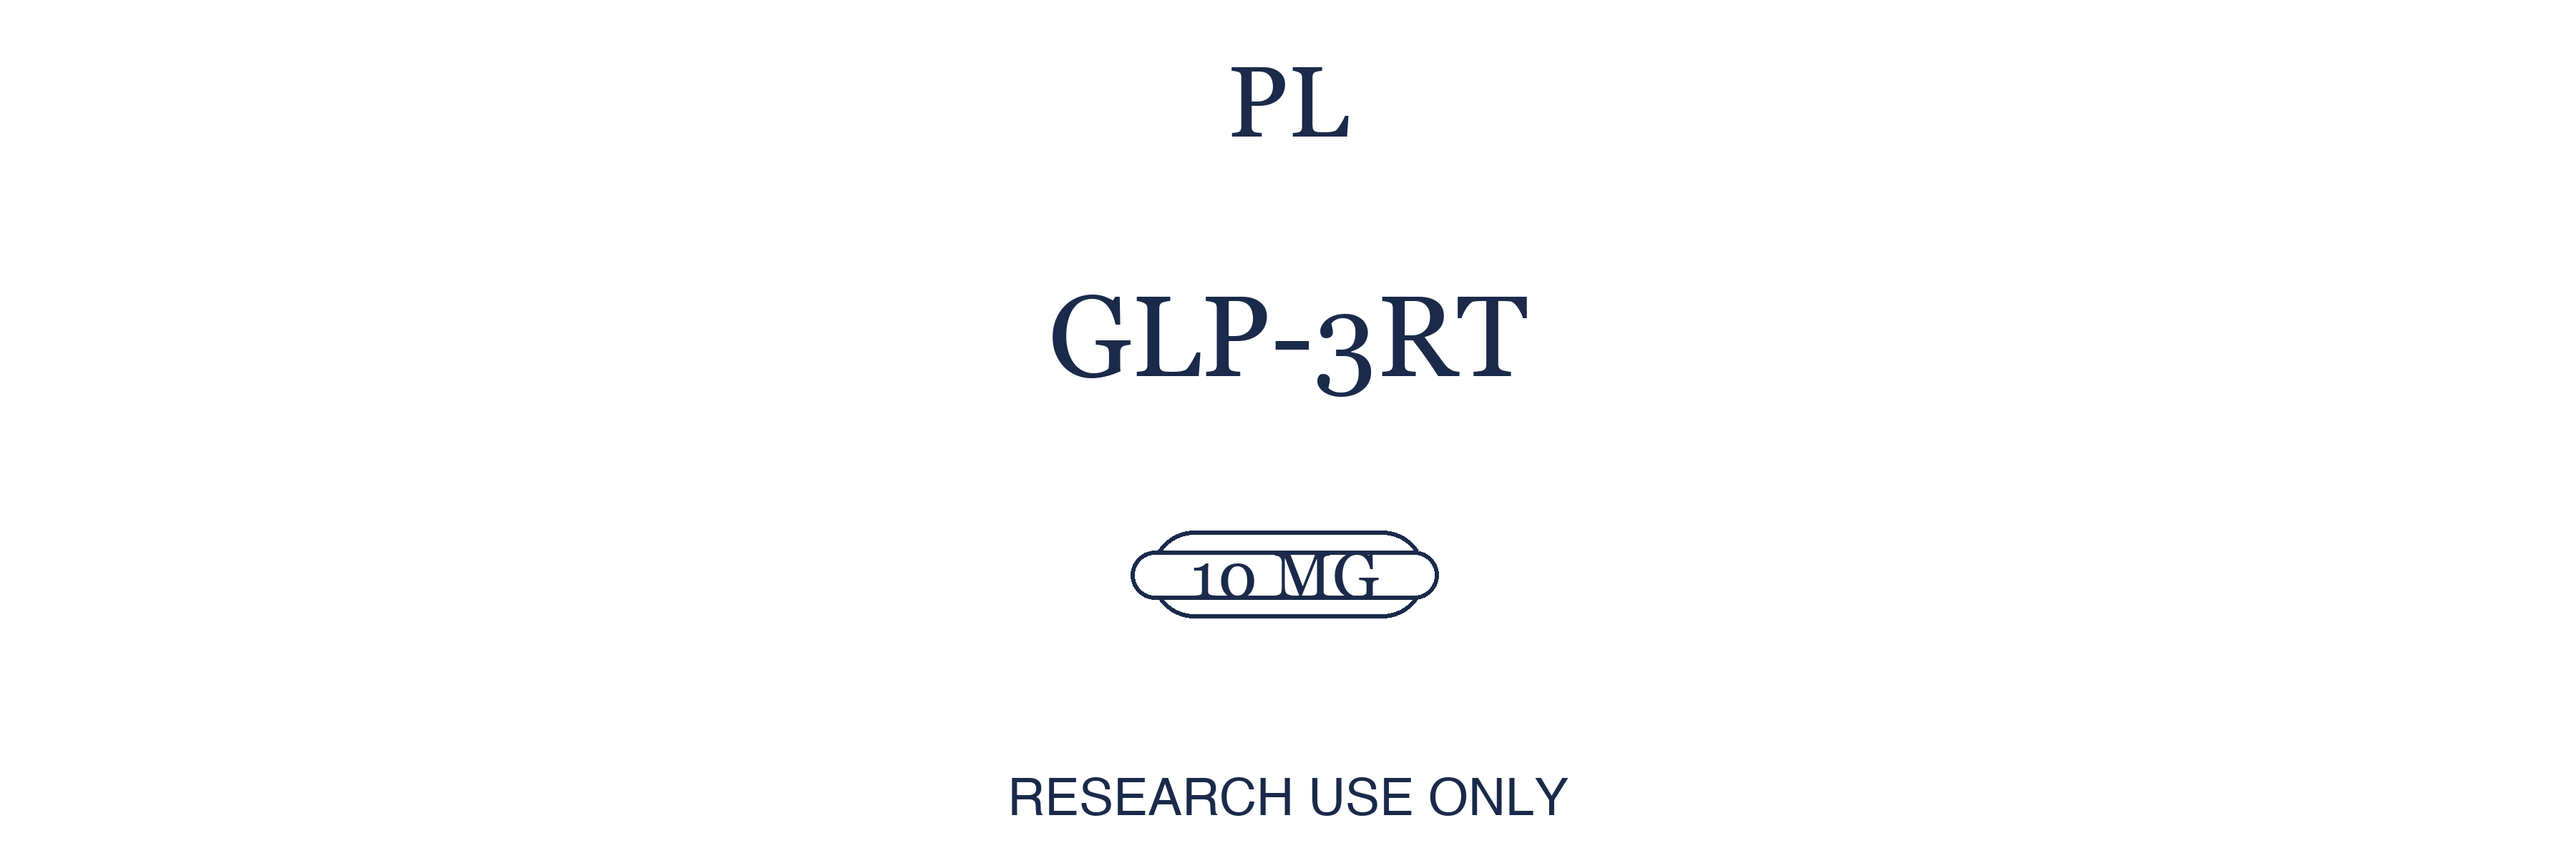
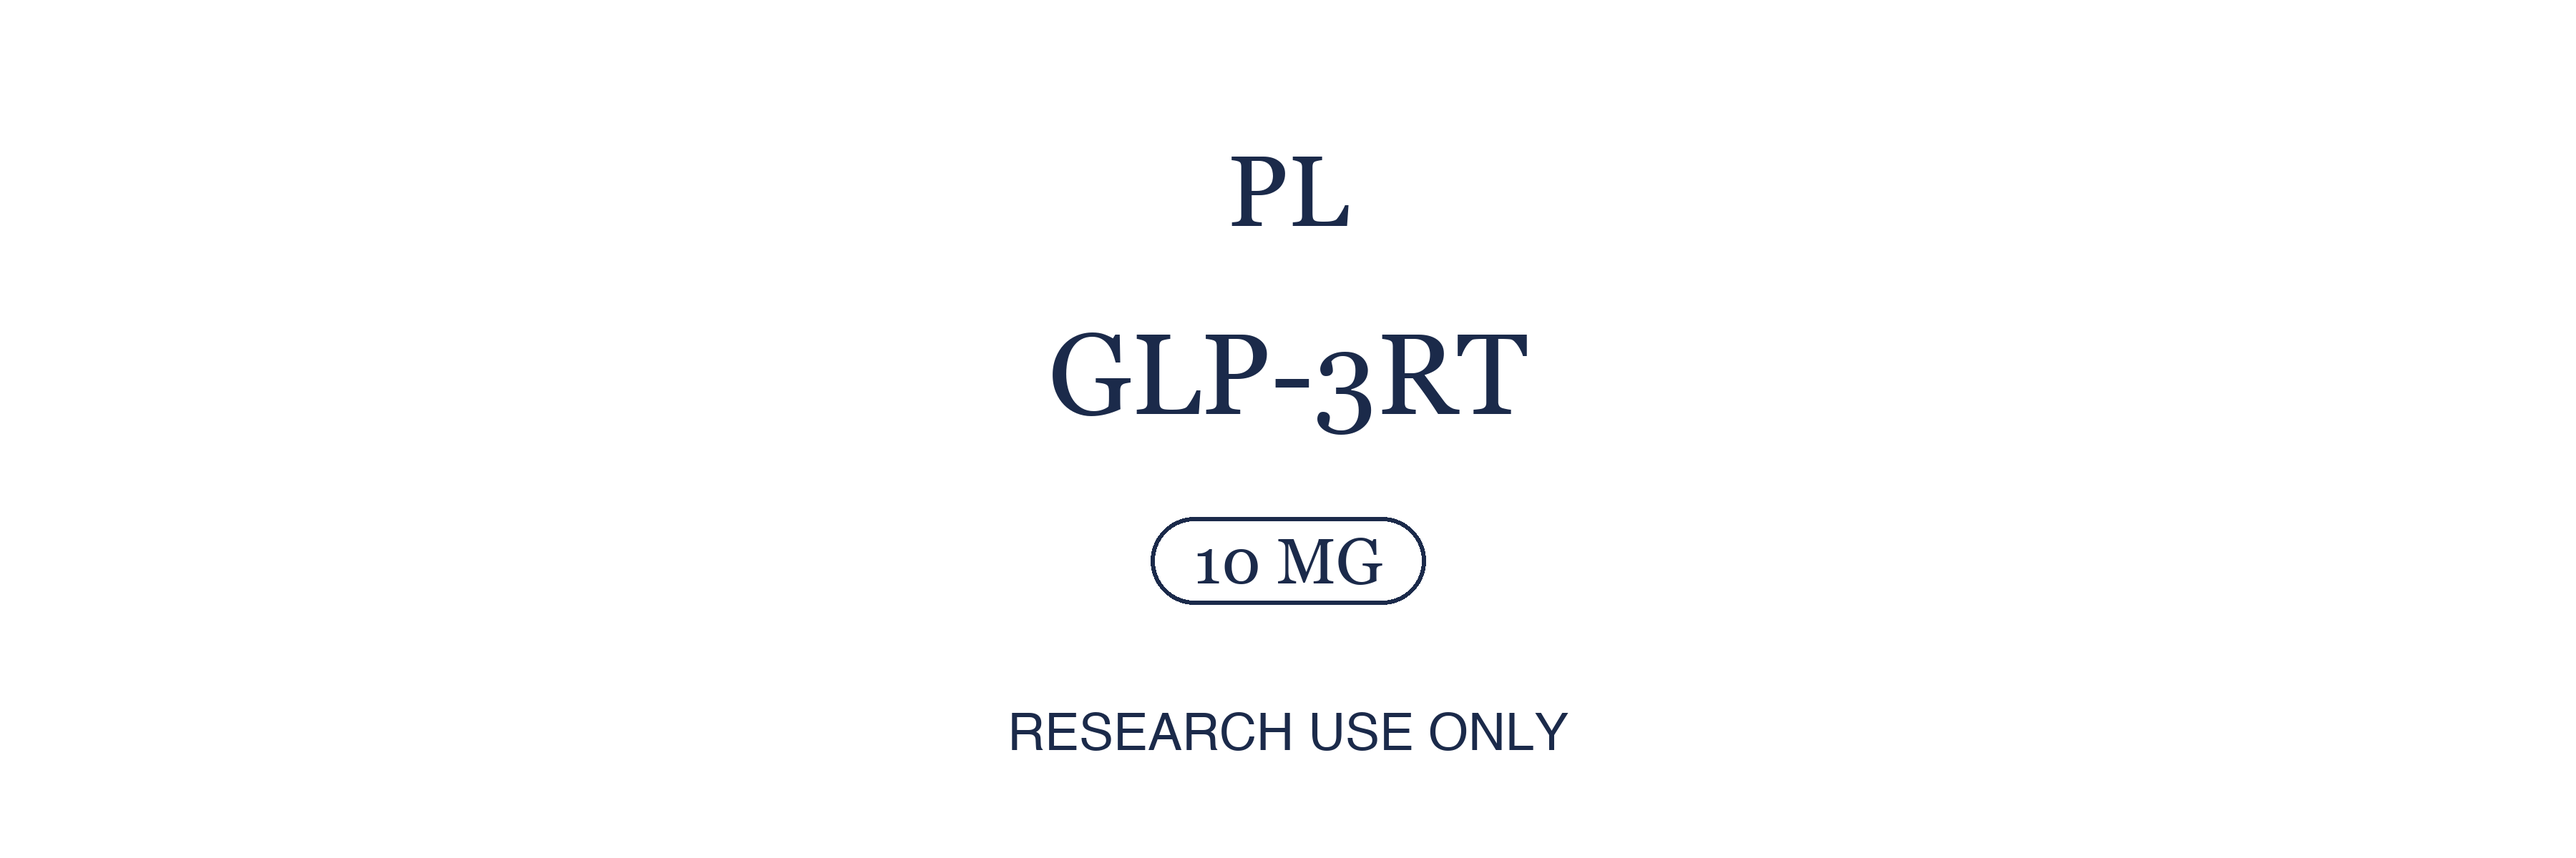
fix: regenerate all labels with correct proportions matching original GLP-3RT spacing

diff --git a/scripts/generate-labels.py b/scripts/generate-labels.py
@@ -5,116 +5,96 @@ from PIL import Image, ImageDraw, ImageFont
 import os
 
 OUTPUT_DIR = os.path.join(os.path.dirname(__file__), "../public/3d")
-
-# Canvas dimensions
 W, H = 3600, 1200
 NAVY = (27, 42, 74, 255)
 TRANSPARENT = (0, 0, 0, 0)
 
-# Font paths (macOS)
-SERIF_PATHS = [
-    "/System/Library/Fonts/Supplemental/Georgia.ttf",
-    "/Library/Fonts/Georgia.ttf",
-]
-SANS_PATHS = [
-    "/System/Library/Fonts/Helvetica.ttc",
-    "/Library/Fonts/Arial.ttf",
-    "/System/Library/Fonts/Supplemental/Arial.ttf",
-]
+SERIF_PATHS = ["/System/Library/Fonts/Supplemental/Georgia.ttf"]
+SANS_PATHS  = ["/System/Library/Fonts/Helvetica.ttc"]
 
 def load_font(paths, size):
     for p in paths:
         if os.path.exists(p):
-            try:
-                return ImageFont.truetype(p, size)
-            except Exception:
-                pass
+            return ImageFont.truetype(p, size)
     return ImageFont.load_default()
 
 def draw_label(filename, product_name, dosage):
-    img = Image.new("RGBA", (W, H), TRANSPARENT)
+    img  = Image.new("RGBA", (W, H), TRANSPARENT)
     draw = ImageDraw.Draw(img)
 
-    # Fonts
-    font_logo = load_font(SERIF_PATHS, 140)
-    font_name = load_font(SERIF_PATHS, 160)
-    font_name_small = load_font(SERIF_PATHS, 120)
+    font_logo   = load_font(SERIF_PATHS, 140)
+    font_name   = load_font(SERIF_PATHS, 160) if len(product_name) <= 12 else load_font(SERIF_PATHS, 120)
     font_dosage = load_font(SERIF_PATHS, 90)
-    font_tag = load_font(SANS_PATHS, 72)
+    font_tag    = load_font(SANS_PATHS,  72)
 
-    cy = H // 2  # vertical center
-
-    # Layout: estimate heights
-    # PL logo
-    logo_text = "PL"
-    logo_bbox = draw.textbbox((0, 0), logo_text, font=font_logo)
-    logo_h = logo_bbox[3] - logo_bbox[1]
-
-    # Product name (may need smaller font if long)
-    fn = font_name if len(product_name) <= 12 else font_name_small
-    name_bbox = draw.textbbox((0, 0), product_name, font=fn)
-    name_h = name_bbox[3] - name_bbox[1]
-
-    # Dosage pill
-    dosage_bbox = draw.textbbox((0, 0), dosage, font=font_dosage)
-    dosage_h = dosage_bbox[3] - dosage_bbox[1]
-
-    # Tag line
-    tag_text = "RESEARCH USE ONLY"
-    tag_bbox = draw.textbbox((0, 0), tag_text, font=font_tag)
-    tag_h = tag_bbox[3] - tag_bbox[1]
-
-    gap = 220
     pill_pad_x = 60
     pill_pad_y = 28
 
-    total_h = logo_h + gap + name_h + gap + (dosage_h + pill_pad_y * 2) + gap + tag_h
-    y = cy - total_h // 2
+    # Measure each element
+    logo_bb  = draw.textbbox((0,0), "PL",               font=font_logo)
+    name_bb  = draw.textbbox((0,0), product_name,        font=font_name)
+    dose_bb  = draw.textbbox((0,0), dosage,              font=font_dosage)
+    tag_bb   = draw.textbbox((0,0), "RESEARCH USE ONLY", font=font_tag)
 
-    def draw_centered(text, font, y_pos):
-        bbox = draw.textbbox((0, 0), text, font=font)
-        tw = bbox[2] - bbox[0]
+    logo_h = logo_bb[3] - logo_bb[1]
+    name_h = name_bb[3] - name_bb[1]
+    dose_h = dose_bb[3] - dose_bb[1]
+    tag_h  = tag_bb[3]  - tag_bb[1]
+    pill_h = dose_h + pill_pad_y * 2
+
+    # Match original GLP-3RT proportions:
+    # content starts at y=187, ends at y=1047  =>  span=860, start=187
+    CONTENT_START = 187
+    CONTENT_END   = 1047
+    CONTENT_SPAN  = CONTENT_END - CONTENT_START  # 860
+
+    # Four elements with three gaps between them
+    total_elements_h = logo_h + name_h + pill_h + tag_h
+    total_gap = CONTENT_SPAN - total_elements_h
+    gap = total_gap // 3  # equal gaps between 4 elements
+
+    y = CONTENT_START
+
+    def draw_centered_text(text, font, y_pos):
+        bb = draw.textbbox((0,0), text, font=font)
+        tw = bb[2] - bb[0]
         draw.text(((W - tw) // 2, y_pos), text, fill=NAVY, font=font)
-        return bbox[3] - bbox[1]
+        return bb[3] - bb[1]
 
     # 1. PL logo
-    h = draw_centered(logo_text, font_logo, y)
+    h = draw_centered_text("PL", font_logo, y)
     y += h + gap
 
     # 2. Product name
-    h = draw_centered(product_name, fn, y)
+    h = draw_centered_text(product_name, font_name, y)
     y += h + gap
 
     # 3. Dosage pill
-    d_bbox = draw.textbbox((0, 0), dosage, font=font_dosage)
-    dw = d_bbox[2] - d_bbox[0]
-    dh = d_bbox[3] - d_bbox[1]
+    dw = dose_bb[2] - dose_bb[0]
     pill_x0 = (W - dw) // 2 - pill_pad_x
     pill_y0 = y
     pill_x1 = (W + dw) // 2 + pill_pad_x
-    pill_y1 = y + dh + pill_pad_y * 2
-    radius = (pill_y1 - pill_y0) // 2
+    pill_y1 = y + pill_h
+    radius  = pill_h // 2
     draw.rounded_rectangle([pill_x0, pill_y0, pill_x1, pill_y1], radius=radius, outline=NAVY, width=6)
-    # True center of pill, draw text anchored at its midpoint
-    pill_center_x = W // 2
-    pill_center_y = (pill_y0 + pill_y1) // 2
-    draw.text((pill_center_x, pill_center_y), dosage, fill=NAVY, font=font_dosage, anchor="mm")
+    draw.text((W // 2, (pill_y0 + pill_y1) // 2), dosage, fill=NAVY, font=font_dosage, anchor="mm")
     y = pill_y1 + gap
 
     # 4. Research use only
-    draw_centered(tag_text, font_tag, y)
+    draw_centered_text("RESEARCH USE ONLY", font_tag, y)
 
-    out_path = os.path.join(OUTPUT_DIR, filename)
-    img.save(out_path, "PNG")
-    print(f"Saved: {out_path}")
+    out = os.path.join(OUTPUT_DIR, filename)
+    img.save(out, "PNG")
+    print(f"Saved: {out}")
 
 PRODUCTS = [
-    ("label-bpc157.png",  "BPC-157",              "10 MG"),
-    ("label-tb500.png",   "TB-500",               "10 MG"),
-    ("label-cjc1295.png", "CJC-1295 + IPAMORELIN","5MG / 5MG"),
-    ("label-mt2.png",     "MT-2",                 "10 MG"),
-    ("label-semax.png",   "SEMAX",                "10 MG"),
-    ("label-selank.png",  "SELANK",               "10 MG"),
+    ("label-glp3rt.png",  "GLP-3RT",               "10 MG"),
+    ("label-bpc157.png",  "BPC-157",               "10 MG"),
+    ("label-tb500.png",   "TB-500",                "10 MG"),
+    ("label-cjc1295.png", "CJC-1295 + IPAMORELIN", "5MG / 5MG"),
+    ("label-mt2.png",     "MT-2",                  "10 MG"),
+    ("label-semax.png",   "SEMAX",                 "10 MG"),
+    ("label-selank.png",  "SELANK",                "10 MG"),
 ]
 
 if __name__ == "__main__":
